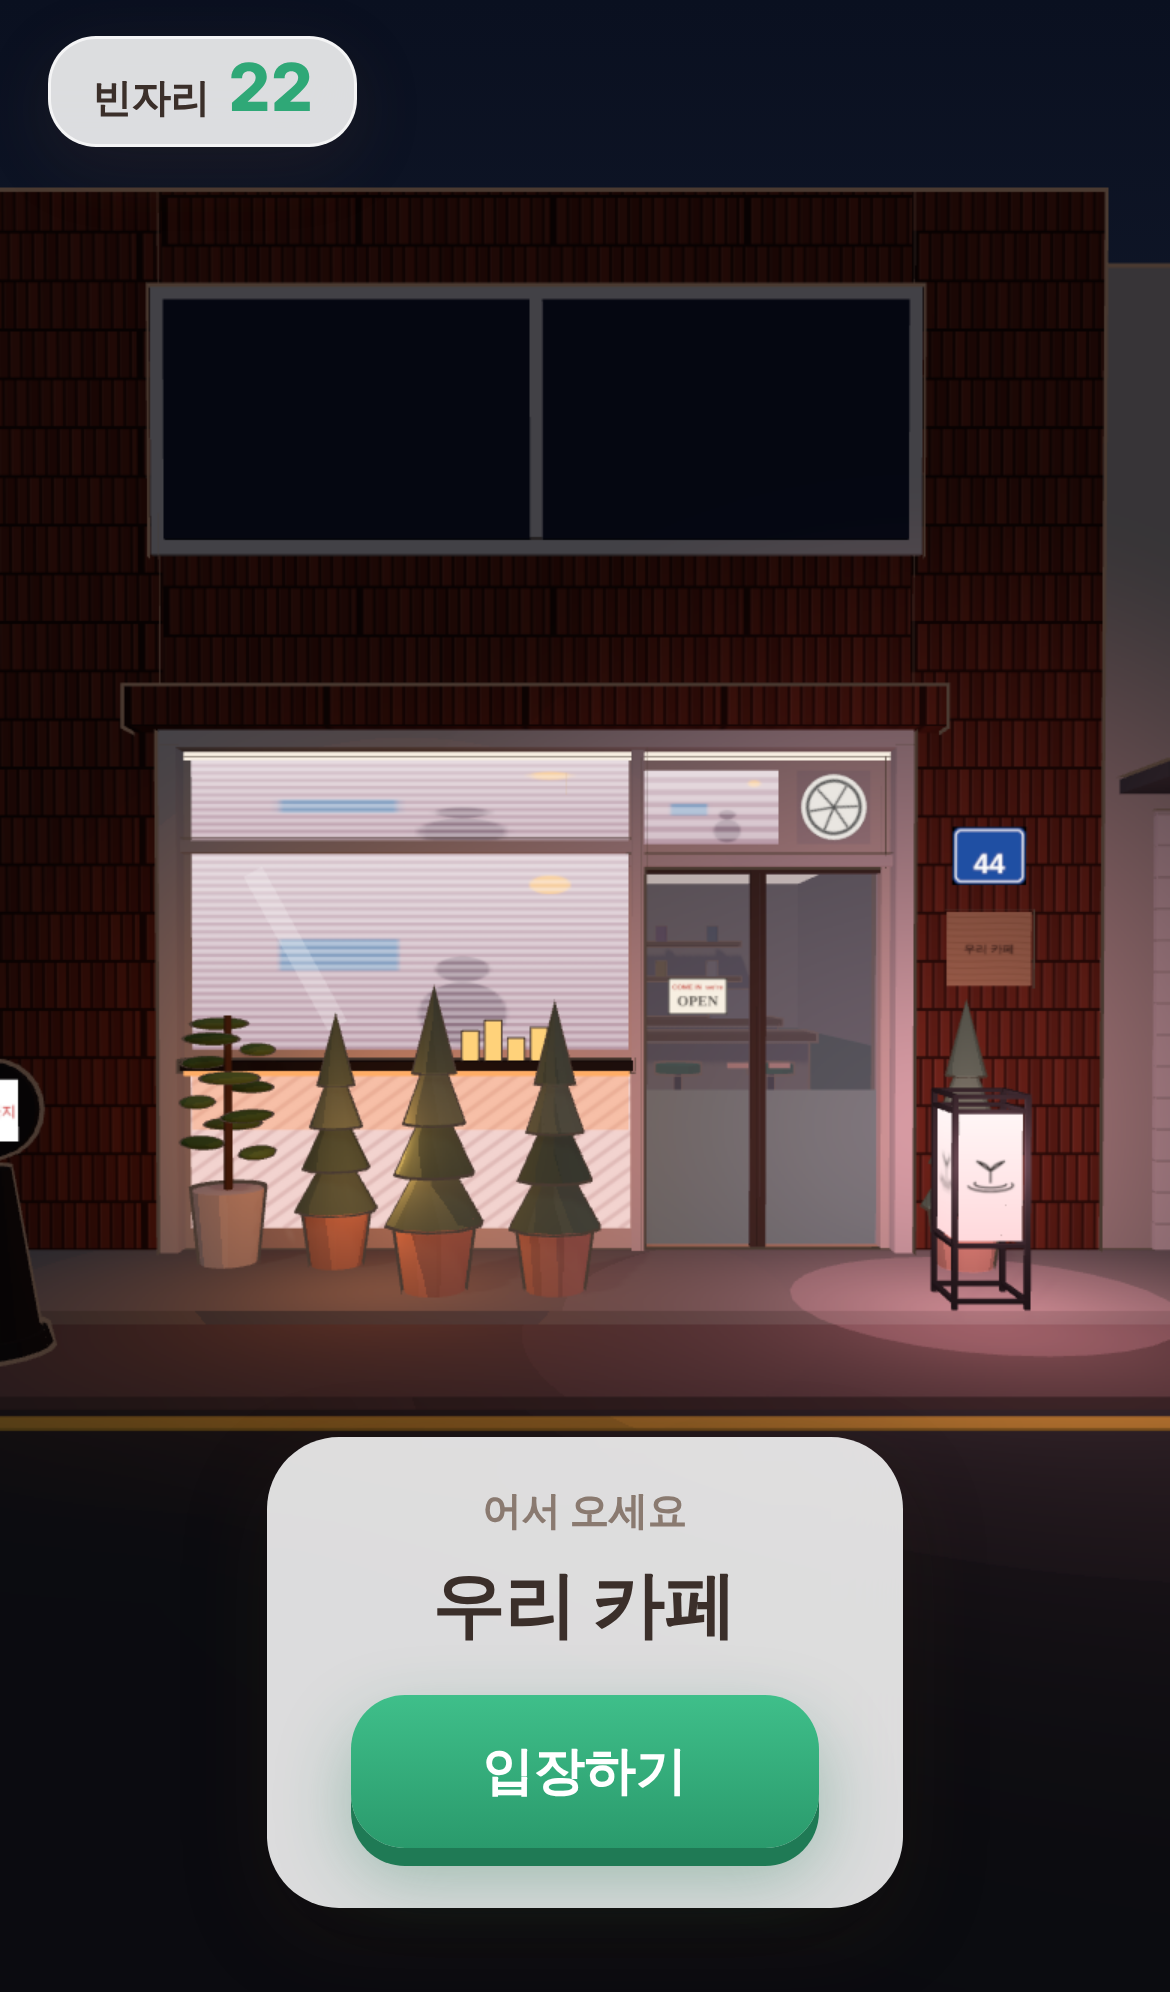
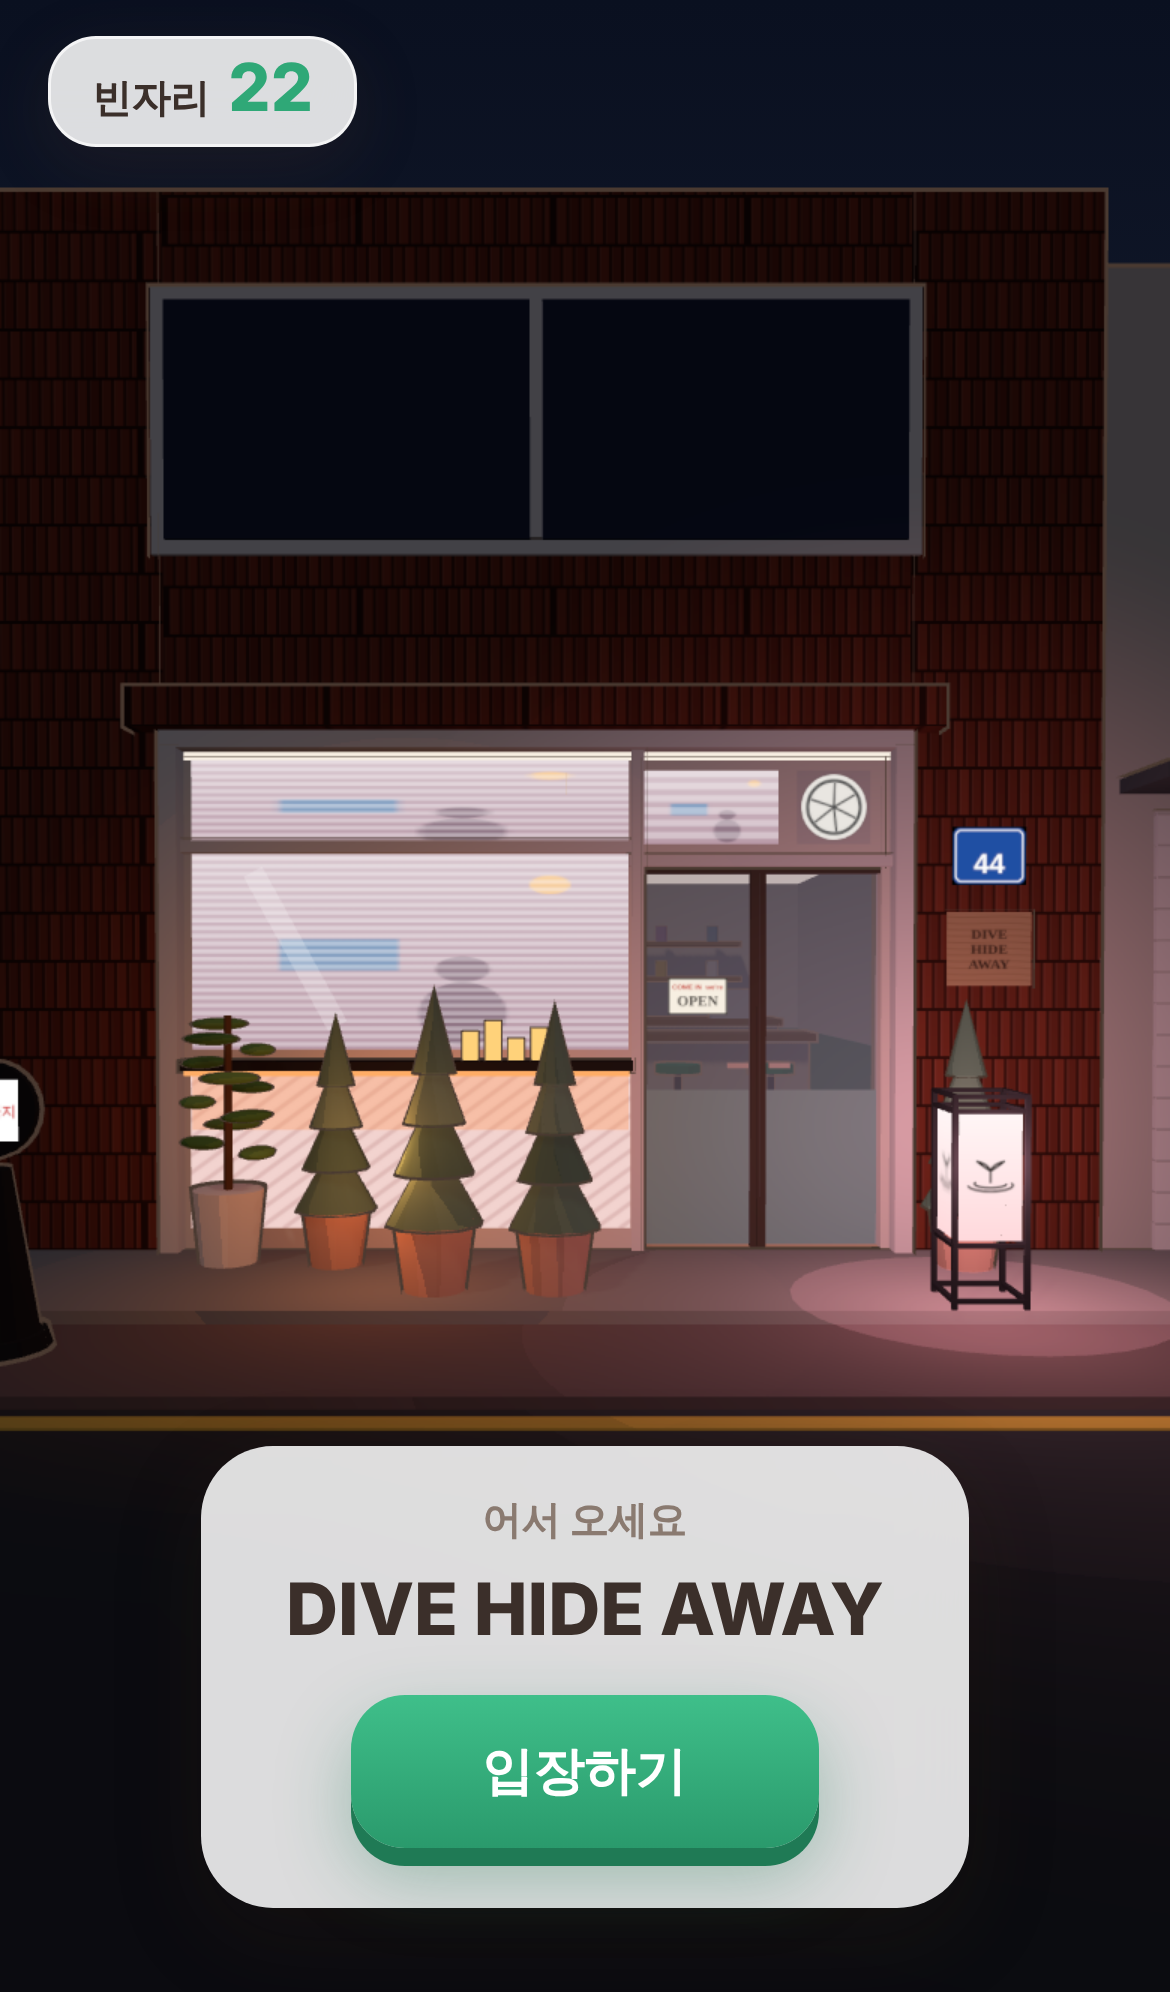
빈자리찾기: 가게 이름 DIVE HIDE AWAY 적용, 명판 글자 줄바꿈
Claude-Session: https://claude.ai/code/session_01TWAGYFS5Sh6N1zPPbaoy4t

Changed region(s): [[0.1538, 0.7159, 0.8308, 0.9649], [0.7077, 0.3735, 0.7385, 0.4357], [0.8308, 0.4669, 0.8615, 0.498]]

diff --git a/seat-finder/public/app.js b/seat-finder/public/app.js
@@ -441,7 +441,15 @@ function buildStorefront(T, door, dh) {
     g.fillStyle = "#c9a57c"; g.fillRect(0, 0, w, h);
     g.strokeStyle = "rgba(120,80,40,.25)"; g.lineWidth = 2;
     for (let y = 8; y < h; y += 11) { g.beginPath(); g.moveTo(0, y); g.bezierCurveTo(40, y + 4, 80, y - 4, w, y + 2); g.stroke(); }
-    g.fillStyle = "#4a3a31"; g.font = "700 18px sans-serif"; g.textAlign = "center"; g.fillText(F.sign || "", w / 2, h / 2 + 6);
+    // 명판 글자: 폭에 맞춰 줄바꿈
+    g.fillStyle = "#3b2b22"; g.textAlign = "center"; g.font = "800 22px Georgia, 'Times New Roman', serif";
+    const lines = [];
+    for (const word of String(F.sign || "").split(" ")) {
+      const last = lines[lines.length - 1];
+      if (last && g.measureText(last + " " + word).width < w - 24) lines[lines.length - 1] = last + " " + word;
+      else lines.push(word);
+    }
+    lines.forEach((l, i) => g.fillText(l, w / 2, h / 2 + 8 + (i - (lines.length - 1) / 2) * 26));
   });
   mk(box(0.48, 0.42, 0.03), toonMap(wood), [px, 1.72, zO + 0.03], fpGroup, ol);
 

diff --git a/seat-finder/public/layout.js b/seat-finder/public/layout.js
@@ -10,13 +10,13 @@
 //  그러면 아래 벽/가구 대신 그 모델이 표시되고, 자리(의자·손님)만 위에 올려집니다.
 // ─────────────────────────────────────────────────────────────
 export default {
-  name: "우리 카페",
+  name: "DIVE HIDE AWAY",
   model: null, // 예: "/models/store.glb"
 
   // 가게 앞 모습 (첫 화면) — 입구 사진 참고
   front: {
     color: "#6e3426", // 벽돌 색
-    sign: "우리 카페", // 입구 옆 나무 명판 + 첫 화면 이름
+    sign: "DIVE HIDE AWAY", // 입구 옆 나무 명판 + 첫 화면 이름
     number: "44", // 파란 번지판 숫자 (없애려면 null)
     street: "", // 번지판 위 작은 글씨 (예: 도로명)
     windowW: 2.6, // 문 왼쪽 쇼윈도 폭(m)

diff --git a/seat-finder/public/index.html b/seat-finder/public/index.html
@@ -222,7 +222,7 @@
   <div class="introbox" id="intro">
     <div class="introcard">
       <small>어서 오세요</small>
-      <strong id="introName">우리 카페</strong>
+      <strong id="introName">DIVE HIDE AWAY</strong>
       <button type="button" class="walkbtn" id="enterBtn">입장하기</button>
     </div>
   </div>
